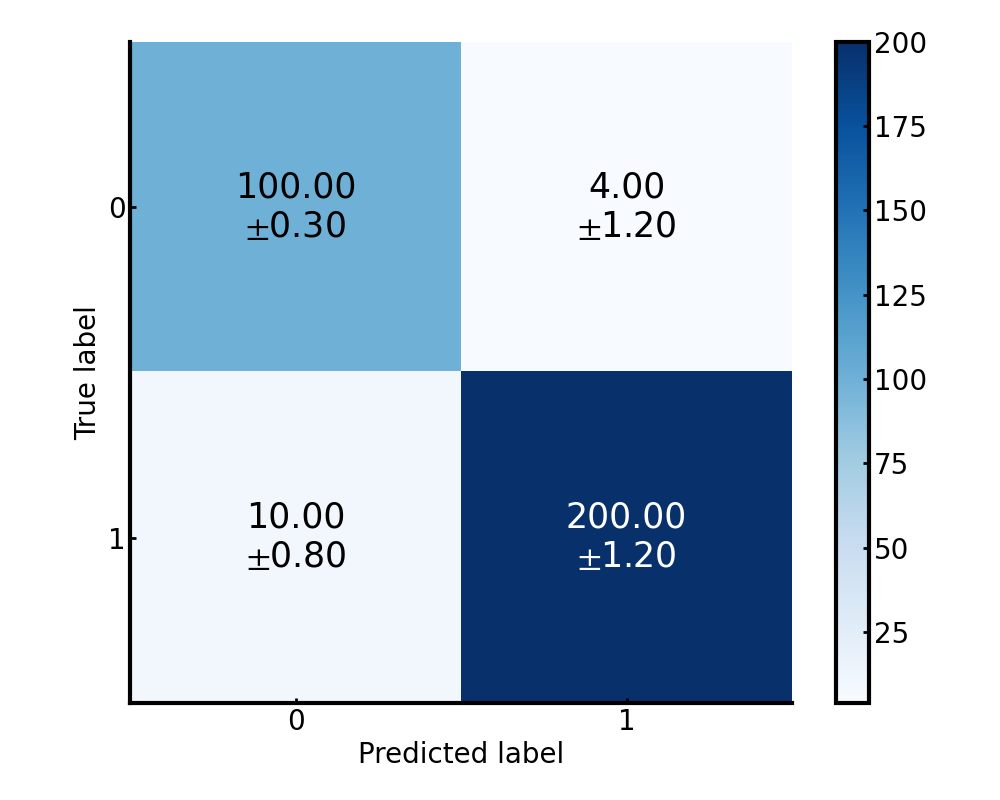
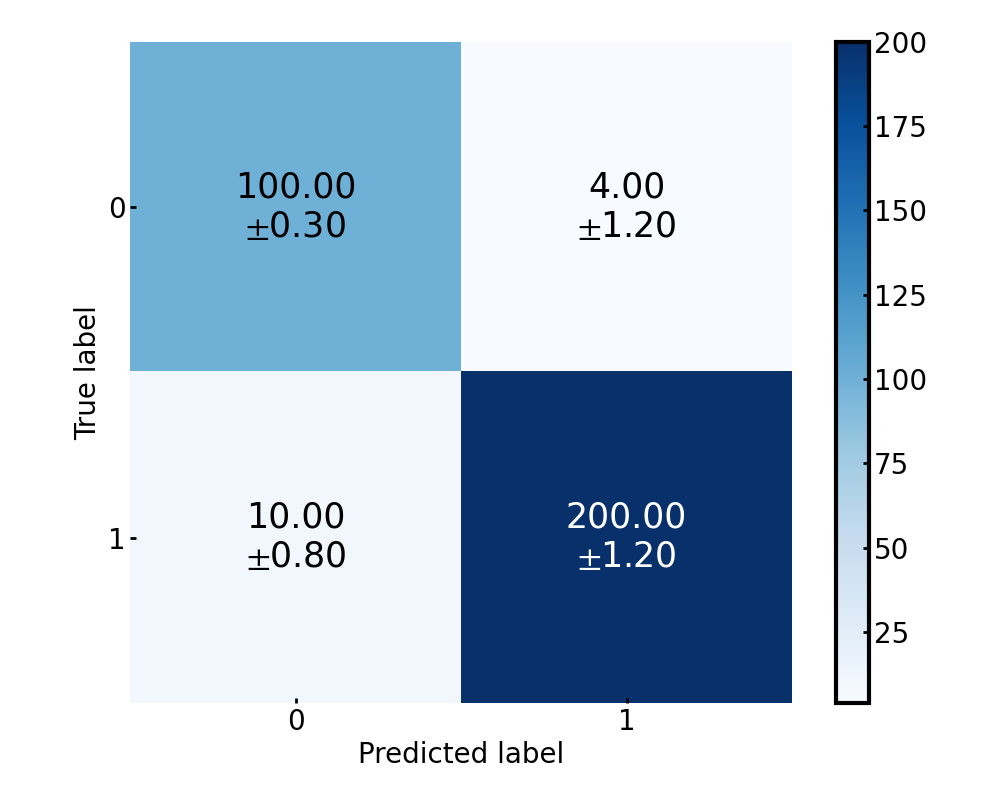
fix bugs

Changed region(s): [[0.124, 0.0625, 0.775, 0.9062]]

diff --git a/plot.py b/plot.py
@@ -57,7 +57,7 @@ class PLOT:
     def save(self, fig, filename):
         for mode in self.save_mode:
             if mode =="pdf":
-                fig.savefig(f"{filename}.{mode}", transparent=False)
+                fig.savefig(f"{filename}.{mode}", transparent=True)
             else:
                 fig.savefig(f"{filename}.{mode}")
         return fig
@@ -203,6 +203,7 @@ class PLOT:
                         verticalalignment="center", fontsize=fontsize,
                         color="white" if cm[i, j] > thresh else "black")
 
+        sns.despine(left=True, bottom=True)
         plt.tight_layout()
         plt.ylabel('True label')
         plt.xlabel('Predicted label')
